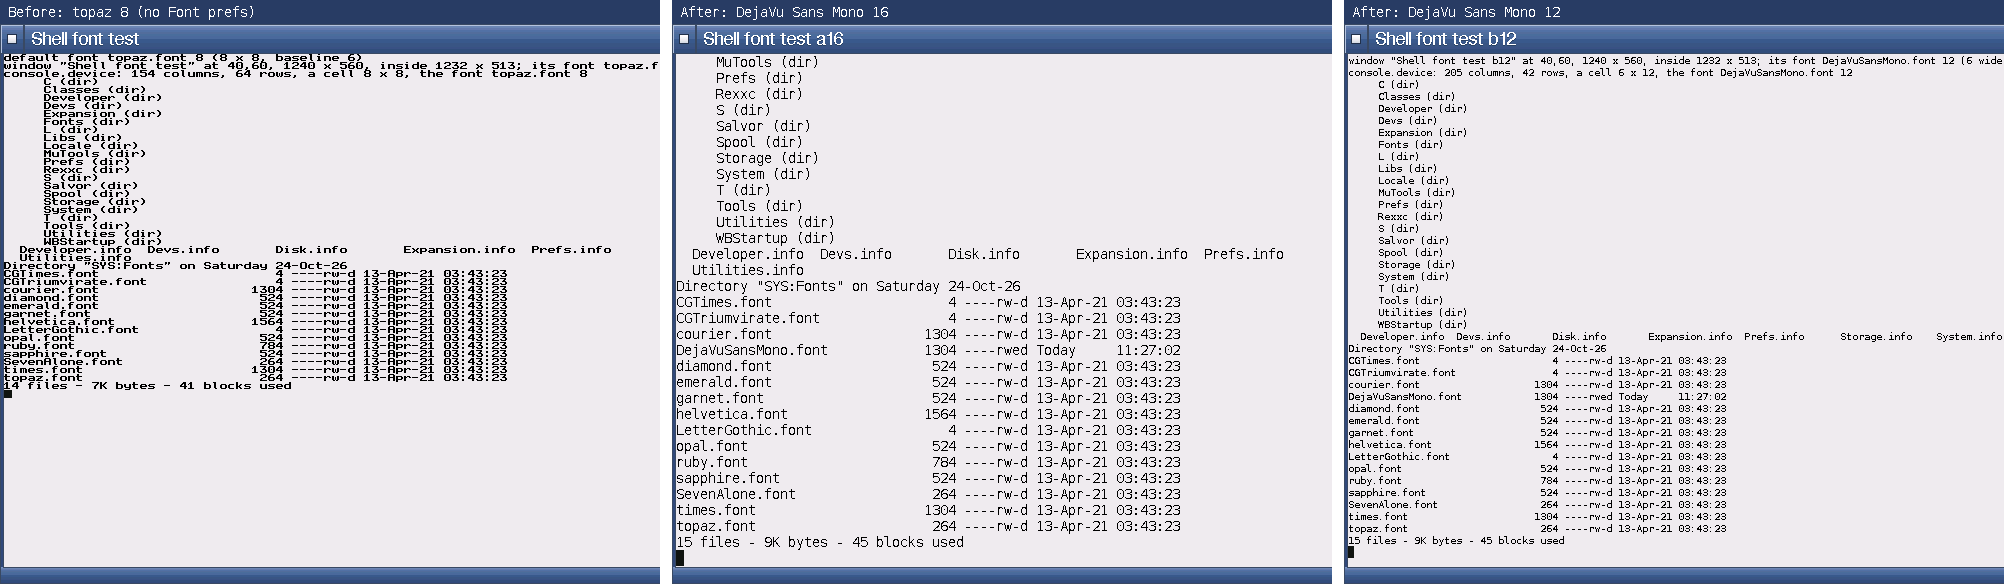
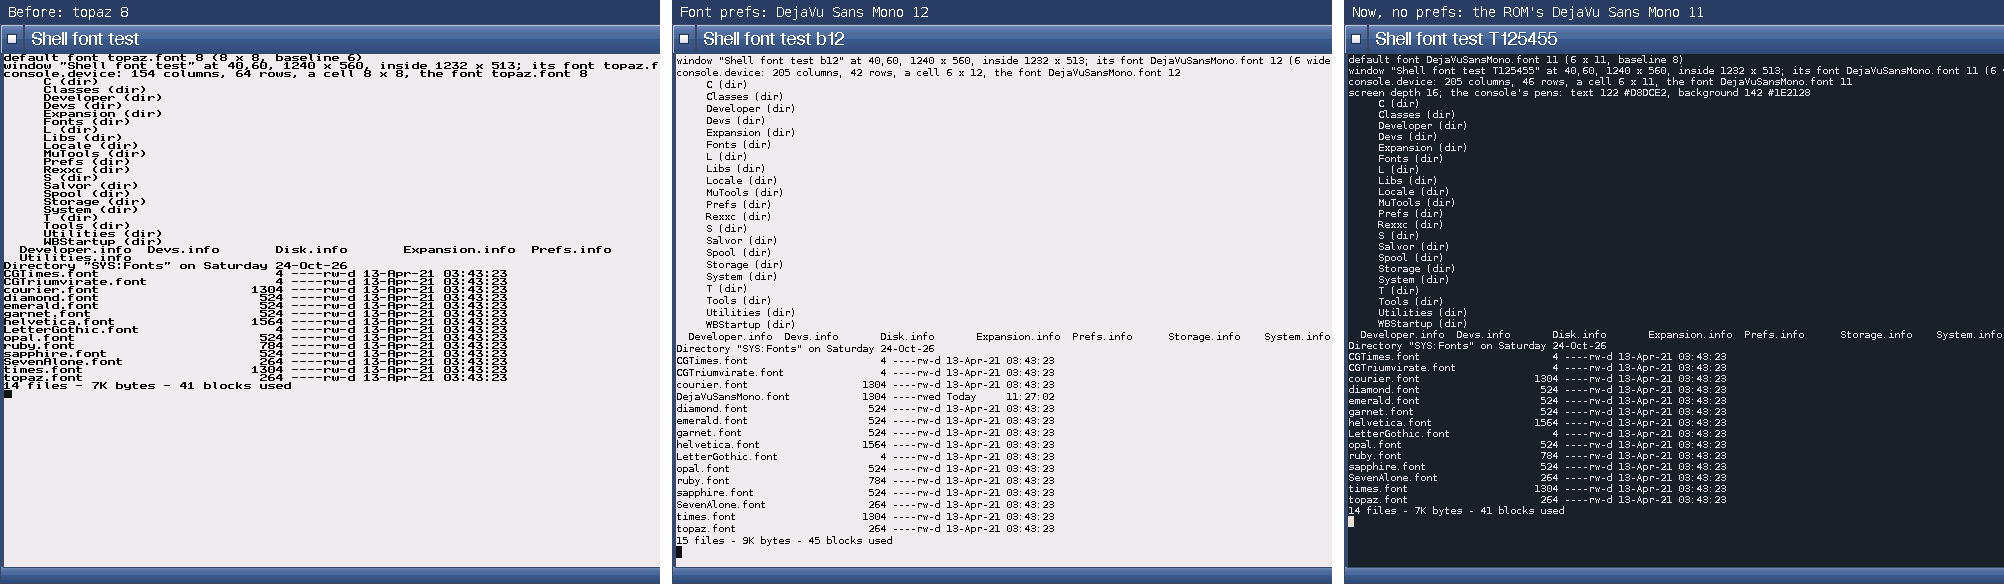
OpenUp: the Shell font picture shows the ROM's 11
docs/shell-font.png is now the same Shell window (Dir and List) in topaz
8, in DejaVu Sans Mono 12 from Font prefs, and in the OpenKick ROM's
DejaVu Sans Mono 11 on the Shell's dark background, lab t4-okrom-20261023
grabs at 1:1; DESIGN.md points to it.

Team 4

diff --git a/DESIGN.md b/DESIGN.md
@@ -38,7 +38,8 @@ PiStorm (Emu68), in an AmigaChrome instance, and on the appliance.
   to 24 pixels high (openamigafont's `fonts/amiga`), for Font prefs' System
   Default Text (24 October 2026). The OpenKick ROM carries the 11 and makes
   it the system default text where no Font prefs name one; OpenUp writes no
-  Font prefs.
+  Font prefs. [docs/shell-font.png](docs/shell-font.png): the Shell in topaz 8,
+  in the 12 from Font prefs, and in the ROM's 11 on its dark background.
 
 TLS is OpenTLS's (opentls.library, with OpenCrypto): OpenMail, OpenFTP's
 FTPS, OpenPrint's IPPS and httpget use it, and the pack doesn't look for
